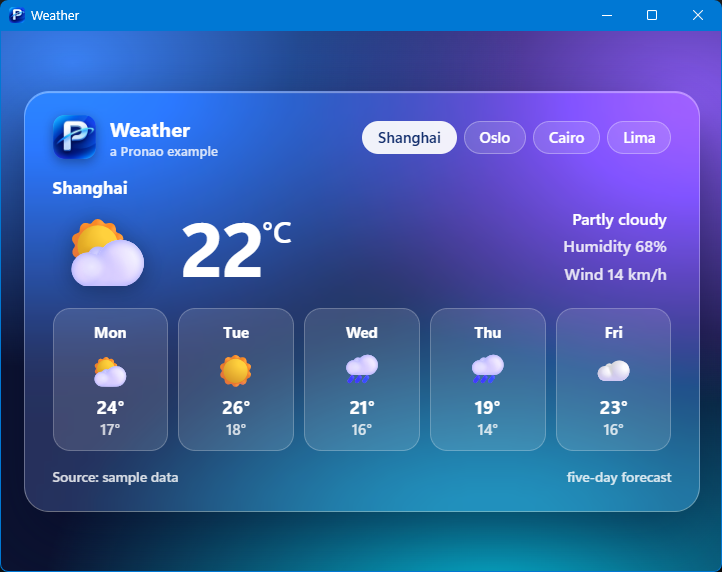
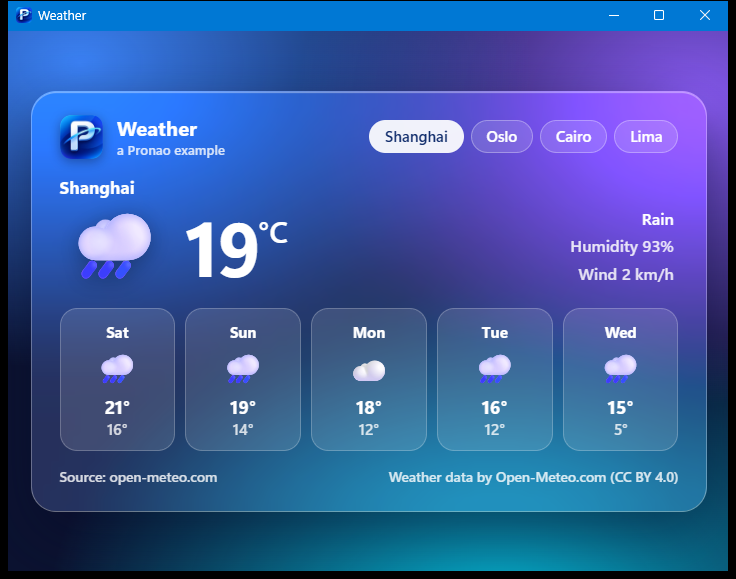
examples/weather: a live forecast, with the request sent by the program
The page calls pronao.http.request; the program lists the one host (api.open-meteo.com, https), allows GET only with no request body, at most 64 KiB back and 10 seconds. No sample data: the README says what a key would look like and that it is hidden from the page, not from someone with the exe. The check has 15 checks against a scripted network (the page's exact request answered; another host, plain http, another port, a lookalike name, POST and Authorization refused; the limits reach the native layer) and three mutations of the example's permissions each fail a check. The real program was run in a window against the real service (screenshot in the README). Examples 211 checks, headless 1,084.

Changed region(s): [[0.0, 0.0, 1.0, 1.0], [0.8837, 0.0, 0.9141, 0.0594], [0.8227, 0.0, 0.8532, 0.0297]]

diff --git a/examples/weather/index.html b/examples/weather/index.html
@@ -53,6 +53,7 @@
   .day .hi { font-size: 16px; font-weight: 700; }
   .day .lo { font-size: 13px; font-weight: 500; color: rgba(255,255,255,.8); }
   footer { margin-top: 14px; font-size: 12px; font-weight: 500; color: rgba(255,255,255,.82); display: flex; justify-content: space-between; }
+  .sub2 { padding: 18px 4px; font-size: 15px; font-weight: 600; color: rgba(255,255,255,.9); }
   .err { padding: 12px 14px; border-radius: 12px; background: rgba(254,202,202,.2); border: 1px solid rgba(254,202,202,.5); font-weight: 600; }
 </style>
 </head>
@@ -64,33 +65,61 @@
     <div class="chips" id="chips"></div>
   </header>
   <div id="view"></div>
-  <footer><span id="src"></span><span>five-day forecast</span></footer>
+  <footer><span id="src"></span><span>Weather data by Open-Meteo.com (CC BY 4.0)</span></footer>
 </div>
 <script>
   const ICON = { sunny: '☀', partly: '⛅', cloudy: '☁', rain: '🌧', snow: '❄', storm: '⛈' };
   const LABEL = { sunny: 'Sunny', partly: 'Partly cloudy', cloudy: 'Cloudy', rain: 'Rain', snow: 'Snow', storm: 'Storm' };
+  // WMO weather interpretation codes, as Open-Meteo reports them
+  function sky(code) {
+    if (code === 0) return 'sunny';
+    if (code <= 2) return 'partly';
+    if (code === 3 || code === 45 || code === 48) return 'cloudy';
+    if ((code >= 71 && code <= 77) || code === 85 || code === 86) return 'snow';
+    if (code >= 95) return 'storm';
+    return 'rain';
+  }
+  const WEEKDAY = ['Sun', 'Mon', 'Tue', 'Wed', 'Thu', 'Fri', 'Sat'];
   const view = document.getElementById('view'), chips = document.getElementById('chips');
+  const esc = (s) => String(s).replace(/[&<>"]/g, (c) => ({ '&': '&amp;', '<': '&lt;', '>': '&gt;', '"': '&quot;' }[c]));
+  let latest = 0;
   async function show(city) {
-    for (const c of chips.children) c.classList.toggle('on', c.textContent === city);
+    const mine = ++latest;
+    for (const c of chips.children) c.classList.toggle('on', c.textContent === city.name);
+    view.innerHTML = '<div class="city">' + esc(city.name) + '</div><div class="sub2">Loading…</div>';
     try {
-      const f = await pronao.invoke('weather.forecast', { city });
+      // the request is sent by the program, which allows only this host; the page gets the status, the headers and the text
+      const url = 'https://api.open-meteo.com/v1/forecast?latitude=' + city.latitude + '&longitude=' + city.longitude +
+        '&current=temperature_2m,relative_humidity_2m,wind_speed_10m,weather_code' +
+        '&daily=weather_code,temperature_2m_max,temperature_2m_min&timezone=auto&forecast_days=5';
+      const r = await pronao.http.request({ url, headers: { Accept: 'application/json' } });
+      if (mine !== latest) return;
+      if (r.status !== 200) throw { code: 'http_' + r.status, message: 'the service answered ' + r.status };
+      const f = JSON.parse(r.body);
+      const now = f.current, d = f.daily;
+      let days = '';
+      for (let i = 0; i < d.time.length; i++) {
+        const when = new Date(d.time[i] + 'T12:00:00');
+        days += '<div class="day"><div class="d">' + WEEKDAY[when.getDay()] + '</div><div class="i">' + ICON[sky(d.weather_code[i])] + '</div>' +
+          '<div class="hi">' + Math.round(d.temperature_2m_max[i]) + '°</div><div class="lo">' + Math.round(d.temperature_2m_min[i]) + '°</div></div>';
+      }
       view.innerHTML =
-        '<div class="city">' + f.city + '</div>' +
-        '<div class="now"><div class="icon">' + ICON[f.sky] + '</div>' +
-        '<div class="temp">' + f.now + '<sup>°C</sup></div>' +
-        '<div class="meta">' + LABEL[f.sky] + '<br><span>Humidity ' + f.humidity + '%</span><br><span>Wind ' + f.wind + ' km/h</span></div></div>' +
-        '<div class="days">' + f.days.map(d =>
-          '<div class="day"><div class="d">' + d.day + '</div><div class="i">' + ICON[d.sky] + '</div>' +
-          '<div class="hi">' + d.high + '°</div><div class="lo">' + d.low + '°</div></div>').join('') + '</div>';
-      document.getElementById('src').textContent = 'Source: ' + f.source;
+        '<div class="city">' + esc(city.name) + '</div>' +
+        '<div class="now"><div class="icon">' + ICON[sky(now.weather_code)] + '</div>' +
+        '<div class="temp">' + Math.round(now.temperature_2m) + '<sup>°C</sup></div>' +
+        '<div class="meta">' + LABEL[sky(now.weather_code)] + '<br><span>Humidity ' + now.relative_humidity_2m + '%</span><br><span>Wind ' + Math.round(now.wind_speed_10m) + ' km/h</span></div></div>' +
+        '<div class="days">' + days + '</div>';
+      document.getElementById('src').textContent = 'Source: open-meteo.com';
     } catch (e) {
-      view.innerHTML = '<div class="err">' + (e.code || 'error') + ': ' + (e.message || '') + '</div>';
+      if (mine !== latest) return;
+      view.innerHTML = '<div class="city">' + esc(city.name) + '</div><div class="err">' + esc(e.code || 'error') + ': ' + esc(e.message || '') + '</div>';
+      document.getElementById('src').textContent = 'No data';
     }
   }
   (async () => {
     const cities = await pronao.invoke('weather.cities');
     for (const c of cities) {
-      const b = document.createElement('button'); b.className = 'chip'; b.textContent = c;
+      const b = document.createElement('button'); b.className = 'chip'; b.textContent = c.name;
       b.onclick = () => show(c); chips.append(b);
     }
     show(cities[0]);

diff --git a/examples/weather/README.md b/examples/weather/README.md
@@ -1,11 +1,15 @@
 # weather
 
-A five-day forecast in a frosted-glass page, with two CeeLing commands behind it.
+A live five-day forecast in a frosted-glass page. The data comes from [Open-Meteo](https://open-meteo.com/), a public weather service that needs no key.
 
-- `weather.cities` lists the cities; `weather.forecast {city}` returns the current weather and five days. The page reads `{city}` into a struct (`ForecastArgs`, decoded by the compiler), so a missing or mistyped field is refused as `invalid_argument` before the command runs, and a city with no data is refused with its own code, `not_found`.
-- **The numbers are sample data kept in the program.** The CeeLing side cannot reach a network yet, so this is not a live forecast; the page says "Source: sample data".
-- The page is one HTML file: a gradient with a blurred, semi-transparent card (`backdrop-filter`), the logo as a small inline image, and buttons that call `pronao.invoke`. The blur is inside the page; the window frame is the system's.
+- The page calls `pronao.http.request({ url, headers })`. **The request is sent by the program, not by the page.** `commands.clg` lists the one host the program may reach (`api.open-meteo.com`, https only), allows no request body and no method but GET, and limits the answer to 64 KiB and the request to 10 seconds. A page cannot call any other address, cannot send `Authorization` or `Cookie`, and has no CORS to fight with.
+- Everything the page needs from CeeLing is two things: the list of cities with their coordinates (`weather.cities`) and the decision of what may be requested. The forecast request, the icons and the layout are in `index.html`.
+- **A service that wants a key** works the same way, with one more line in `commands.clg`: `app.addHttpHeader("api.example.com", "Authorization", "Bearer ...")`. The header is added by the program to every request to that host; the page never sees it and cannot send one of its own. (Open-Meteo needs none, so this example has no such line. The key would live in the program, where someone who has the `.exe` can find it: it is hidden from the page, not from the user.)
+- The window shows an error with its code when there is no network (`connect_failed`), a slow answer (`timeout`) or a bad answer (`http_500`): it does not hang.
+- **Data and terms:** forecasts by Open-Meteo.com (CC BY 4.0, attribution is shown in the window). Open-Meteo's free service is for non-commercial use; read its terms before putting a program like this in front of other people.
 
-Manual: [chapter 2, How it works](../../docs/manual/02-how-it-works.md). Run it from the repository root:
+The check in `tests/examples/weather_check.clg` runs the program's setup against a scripted network (no internet needed): the page's exact request is answered, another host, plain http, another port and a lookalike name are refused, a POST and an `Authorization` header are refused, and the limits reach the native layer. The page's own code is not run by it. The real thing was also run in a window against the real service (a `PrintWindow` of the program's own window), by hand, not by a script in this repository.
+
+Manual: [HTTP requests from the program](../../docs/manual/04-programs-and-links.md). Run it from the repository root (it needs the internet):
 
     PAGE=examples/weather/index.html EXTRA=examples/weather/commands.clg bash scripts/build.sh examples/weather/main.clg out/weather.exe

diff --git a/docs/manual/04-programs-and-links.md b/docs/manual/04-programs-and-links.md
@@ -85,7 +85,7 @@ await pronao.http.request({ url: '...', method: 'POST', headers: { 'Content-Type
 - **Redirects are followed here, one hop at a time, at most five**, and each hop is checked like the first request: a server cannot send the request to a host that is not listed (`redirect_not_allowed`) or down from https to http, and a header added for one host is not sent to another. A 303 (and a 301 or 302 after a POST) asks again with GET and no body; 307 and 308 keep the method and the body.
 - **Limits:** the request body (default 1 MiB), the response (default 8 MiB; a longer one is refused with `too_large`, not cut) and the time (default 15 s, a page may ask for less). At most 20 requests start in a second (`too_many`; `app.httpRate(n)` changes it). The request runs on a worker, so the program keeps serving, and the page can cancel it with an `AbortSignal` (`cancelled`; the tests cancel through `app_cancel`, which is what an abort calls).
 - **Error codes** the page can switch on: `host_not_allowed`, `redirect_not_allowed`, `invalid_url`, `invalid_argument`, `method_not_allowed`, `too_large`, `too_many`, `timeout`, `connect_failed`, `tls_failed`, `too_many_redirects`, `not_text`, `cancelled`, `unsupported`. A certificate that is expired, for another host or self-signed is `tls_failed`: Windows' own certificate checks are not relaxed.
-- **Tested:** 82 headless checks through the real command pipeline with a scripted network (what a page may and may not make the program send, where a redirect may go, limits, cancelling), each rule proven by a negative control that removes it; and 26 checks of the real WinHTTP layer against a server on the loopback interface (redirects not followed, no cookie sent back, the byte limit, the time limit, a cancel, a header with a line break refused). TLS was checked by hand against `example.com` (answered) and three public test hosts with a bad certificate (all refused as `tls_failed`).
+- **Tested:** 82 headless checks through the real command pipeline with a scripted network (what a page may and may not make the program send, where a redirect may go, limits, cancelling), each rule proven by a negative control that removes it; and 27 checks of the real WinHTTP layer against a server on the loopback interface (redirects not followed, no cookie sent back, the byte limit, the time limit, a cancel, a header with a line break refused, a server that sends a standard deflate stream). TLS was checked by hand against `example.com` (answered) and three public test hosts with a bad certificate (all refused as `tls_failed`). The weather example was run in a real window against the real Open-Meteo service. **That run found a bug the loopback tests had missed:** with "gzip, deflate" offered, Open-Meteo answers with a standard zlib deflate stream, which WinHTTP fails to read (`E_ABORT`, status 200 and no body), so only gzip is offered now; the loopback server reproduces it with a stream of that form and the test fails without the change.
 - **Not covered:** what a listed host does with the request; DNS and routing (a listed name that resolves to a private address is still reached); proxies other than the system's; cookies, WebSockets, streaming and uploads of large files; Linux (the layer answers `unsupported`). The key lives in the program's memory and in its code: it is hidden from the page, not from someone who has the `.exe`.
 
 ## The environment of a program

diff --git a/examples/README.md b/examples/README.md
@@ -17,7 +17,7 @@ Each folder is a complete program for one part of the [manual](../docs/manual/RE
 | [limits](limits/) | request size and flood limits, a command list | [8](../docs/manual/08-security.md) |
 | [site](site/) | a front end of several files served from memory, and a release build | [9](../docs/manual/09-web-ui-and-shipping.md), [10](../docs/manual/10-distribution.md) |
 | [cpp](cpp/) | the same kind of program written in C++ against the generated headers | [C](../docs/manual/appendix-cpp.md) |
-| [weather](weather/) | a five-day forecast in a frosted-glass page; a struct argument, a custom error code (sample data: no network yet) | [2](../docs/manual/02-how-it-works.md) |
+| [weather](weather/) | a live five-day forecast: the program sends the request, only to the one host it lists (needs the internet) | [2](../docs/manual/02-how-it-works.md) |
 | [drawio](drawio/) | the draw.io diagram editor as one exe: open and save through dialogs, unsaved-changes warning (needs `fetch.sh`; not built by `run_examples.sh`) | [3](../docs/manual/03-files-and-data.md) |
 | [template](template/) | what `scripts/new_project.sh` copies for a project of your own | [1](../docs/manual/01-getting-started.md) |
 
@@ -27,4 +27,4 @@ Build one from the repository root (the exact line is in each README), for examp
 PAGE=examples/files/index.html EXTRA=examples/files/commands.clg bash scripts/build.sh examples/files/main.clg out/files.exe
 ```
 
-`bash tests/run_examples.sh` builds every example and runs every check (207 checks, about 8 minutes: each example is compiled twice). The pages' scripts are only checked for syntax, and what a real window shows (a menu bar, a toast, a tray click, a drag from the file manager) is not tested here; the real-window scripts in `tests/` cover part of that.
+`bash tests/run_examples.sh` builds every example and runs every check (211 checks, about 8 minutes: each example is compiled twice). The pages' scripts are only checked for syntax, and what a real window shows (a menu bar, a toast, a tray click, a drag from the file manager) is not tested here; the real-window scripts in `tests/` cover part of that.

diff --git a/docs/manual/01-getting-started.md b/docs/manual/01-getting-started.md
@@ -8,8 +8,8 @@ Fetch the dependencies, build the example, make a project of your own, run the t
 bash scripts/fetch.sh                 # downloads webview 0.12.0 and the WebView2 SDK 1.0.2210.55 (pinned, sha256-checked) into third_party/
 PAGE=examples/hello/index.html bash scripts/build.sh examples/hello/main.clg hello.exe
 
-bash tests/run_headless.sh            # ~20 s, 18 programs, about 1,100 checks (1,083 on 2026-11-13); each prints "N passed, 0 failed" (SLOW=1: build at -O1)
-bash tests/run_examples.sh           # ~8 min: builds each program in examples/ and runs its 14 to 23 headless checks (207 in all)
+bash tests/run_headless.sh            # ~20 s, 18 programs, about 1,100 checks (1,084 on 2026-11-14); each prints "N passed, 0 failed" (SLOW=1: build at -O1)
+bash tests/run_examples.sh           # ~8 min: builds each program in examples/ and runs its 14 to 23 headless checks (211 in all)
 bash tests/run_distribution.sh       # release build: windowed program, version and icon in the exe, the runtime check with a box, bad version values refused
 bash tests/run_signing.sh            # signing with a throwaway certificate: signed, runs, a changed file is caught, refusals
 bash tests/run_layout_window.sh       # a real window: full screen, always on top, no title bar, fixed size, a place fitted to the monitors, a modal window; two controls that must fail

diff --git a/CONTRIBUTING.md b/CONTRIBUTING.md
@@ -6,8 +6,8 @@ You need the [CeeLing compiler](https://github.com/AI4Engr/CeeLing) and [cJSON-c
 
 ```bash
 bash scripts/fetch.sh                  # once: webview and WebView2 headers into third_party/ (pinned, hash-checked)
-bash tests/run_headless.sh             # ~20 s, 18 programs, 1,083 checks, no window
-bash tests/run_examples.sh             # ~8 min: builds every program in examples/ and runs its 207 checks
+bash tests/run_headless.sh             # ~20 s, 18 programs, 1,084 checks, no window
+bash tests/run_examples.sh             # ~8 min: builds every program in examples/ and runs its 211 checks
 bash tests/negative_controls.sh        # removes one check at a time from src/ and shows that the tests fail
 ```
 

diff --git a/README.md b/README.md
@@ -16,7 +16,7 @@ A program is one `.exe` with no installer. The example program below is **1.2 MB
 
 <p align="center"><img src="docs/assets/weather.png" width="560" alt="examples/weather: a forecast page in a Pronao window"></p>
 
-<p align="center"><sub>examples/weather: a page of HTML, CSS and JavaScript calling two CeeLing commands. The forecast is sample data.</sub></p>
+<p align="center"><sub>examples/weather: a page of HTML, CSS and JavaScript with a live forecast. The program, not the page, sends the request, and only to the host it lists.</sub></p>
 
 ## Quick start
 
